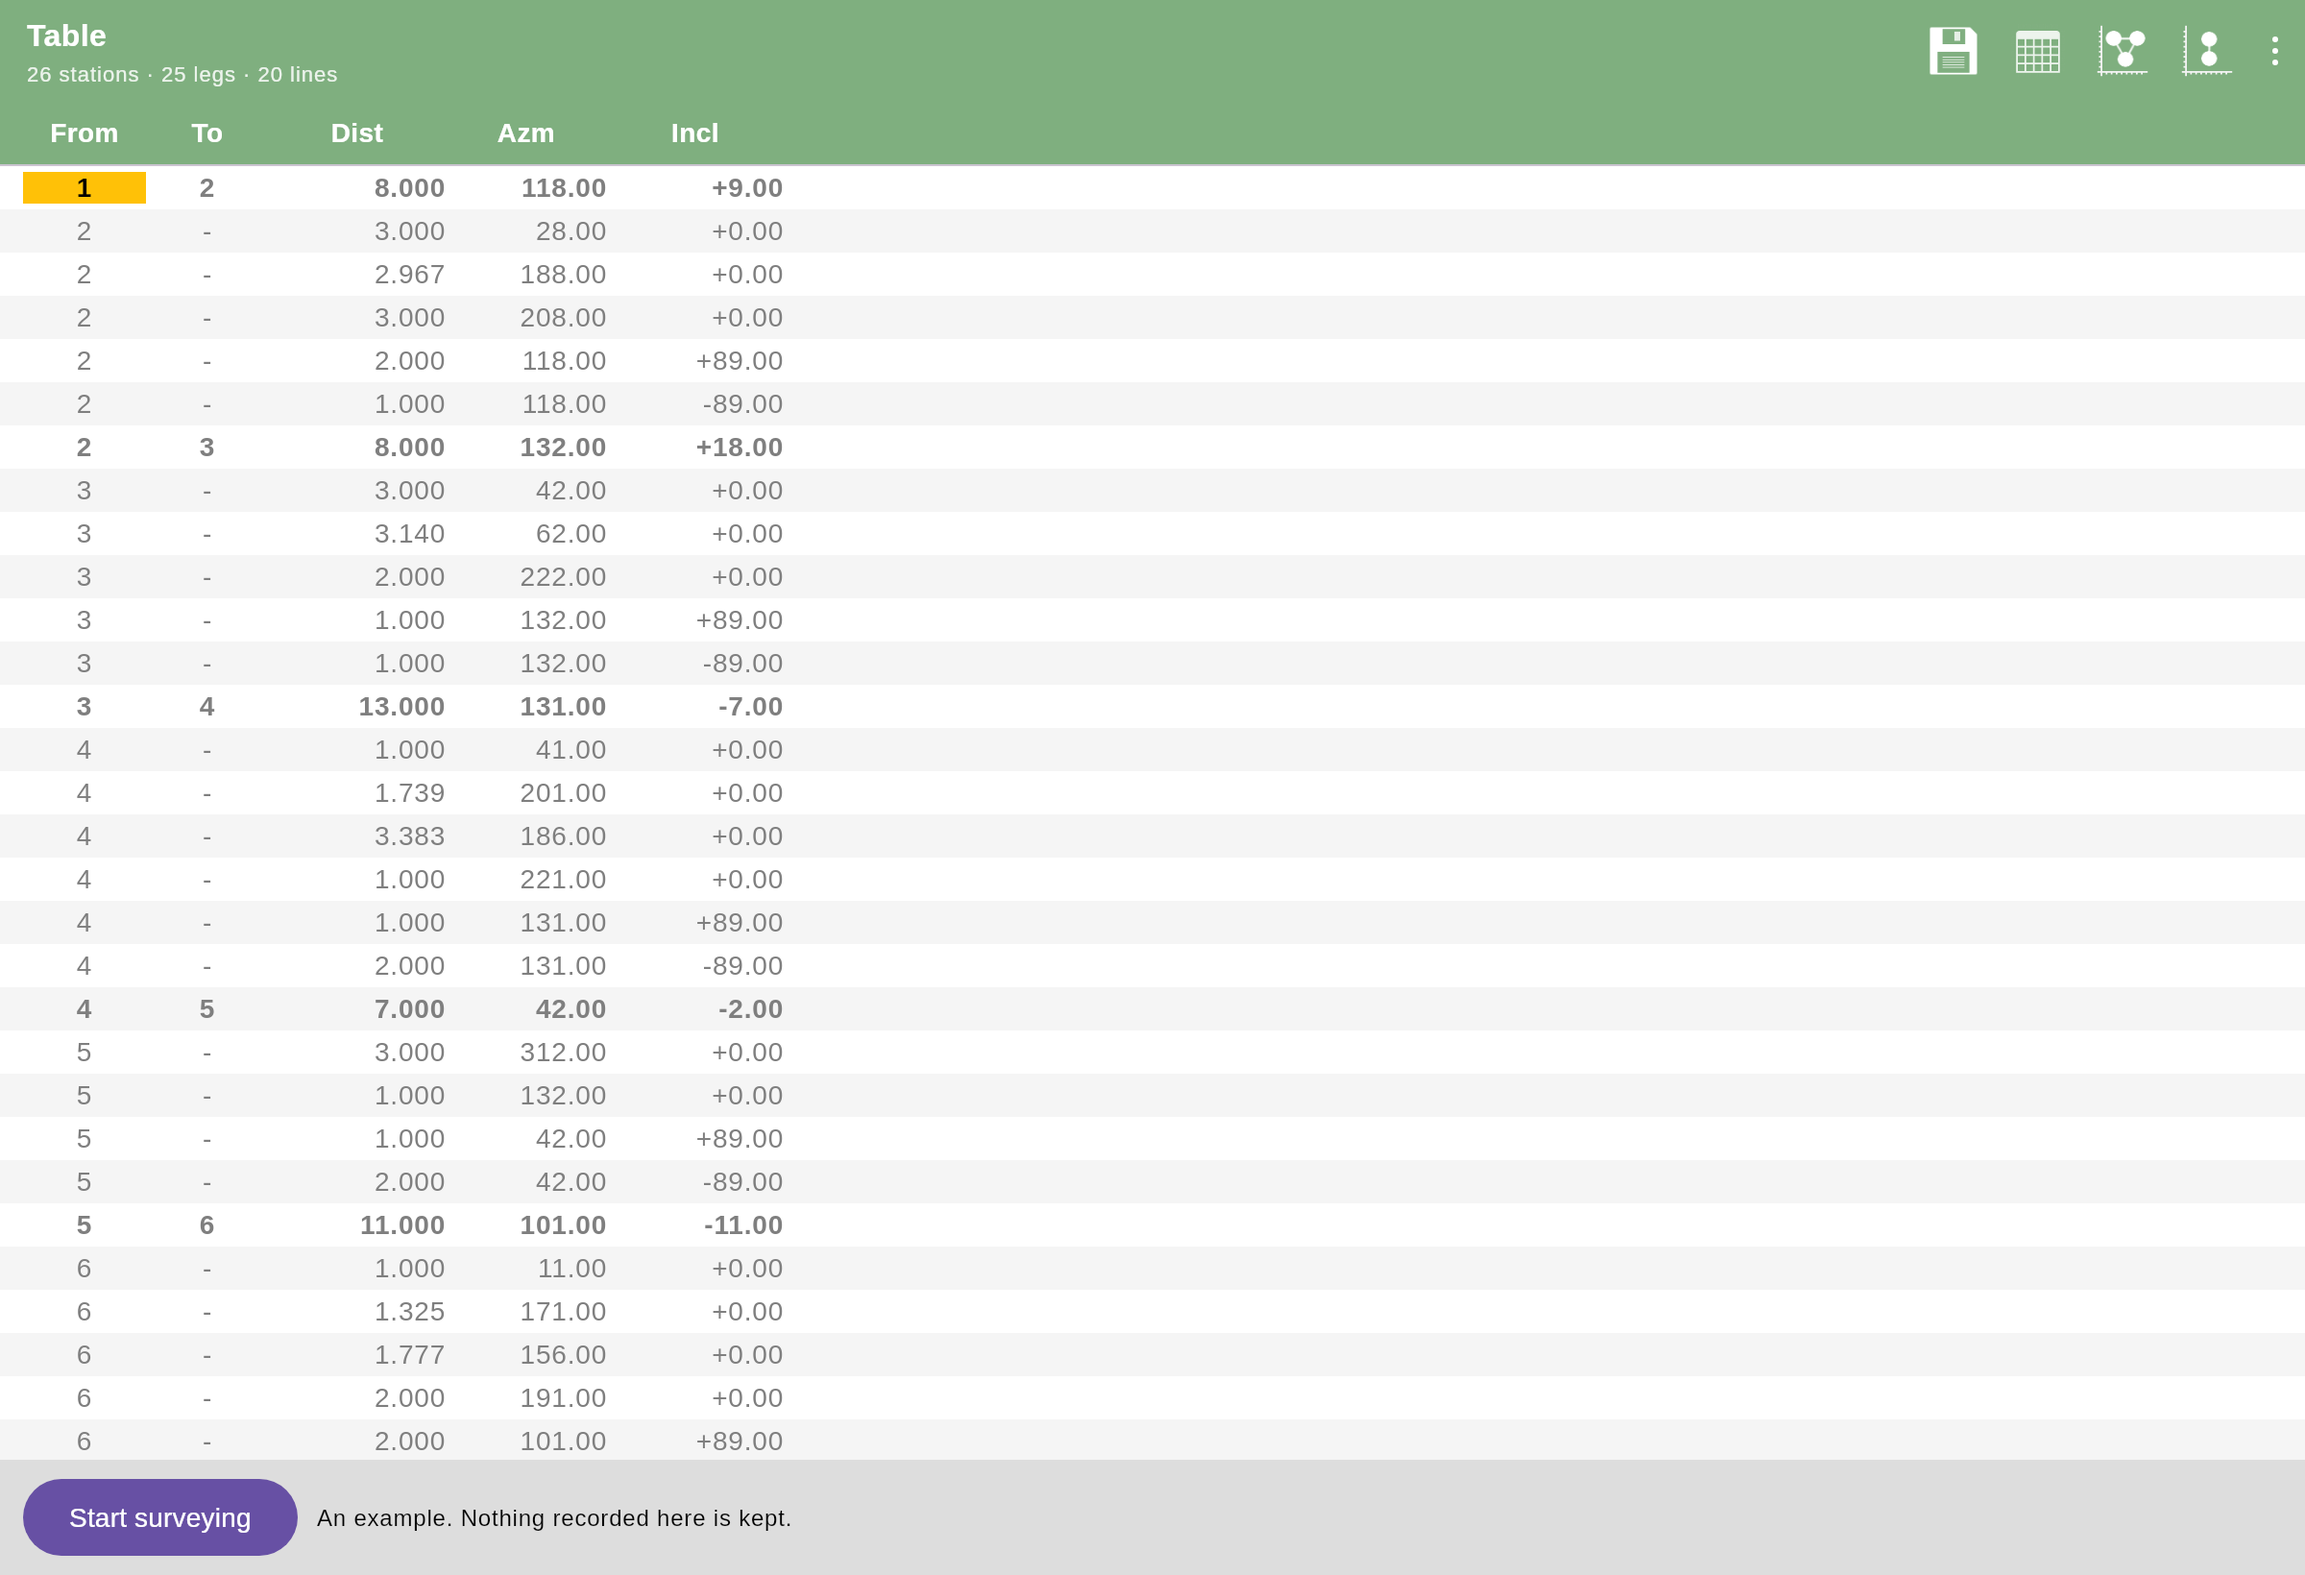
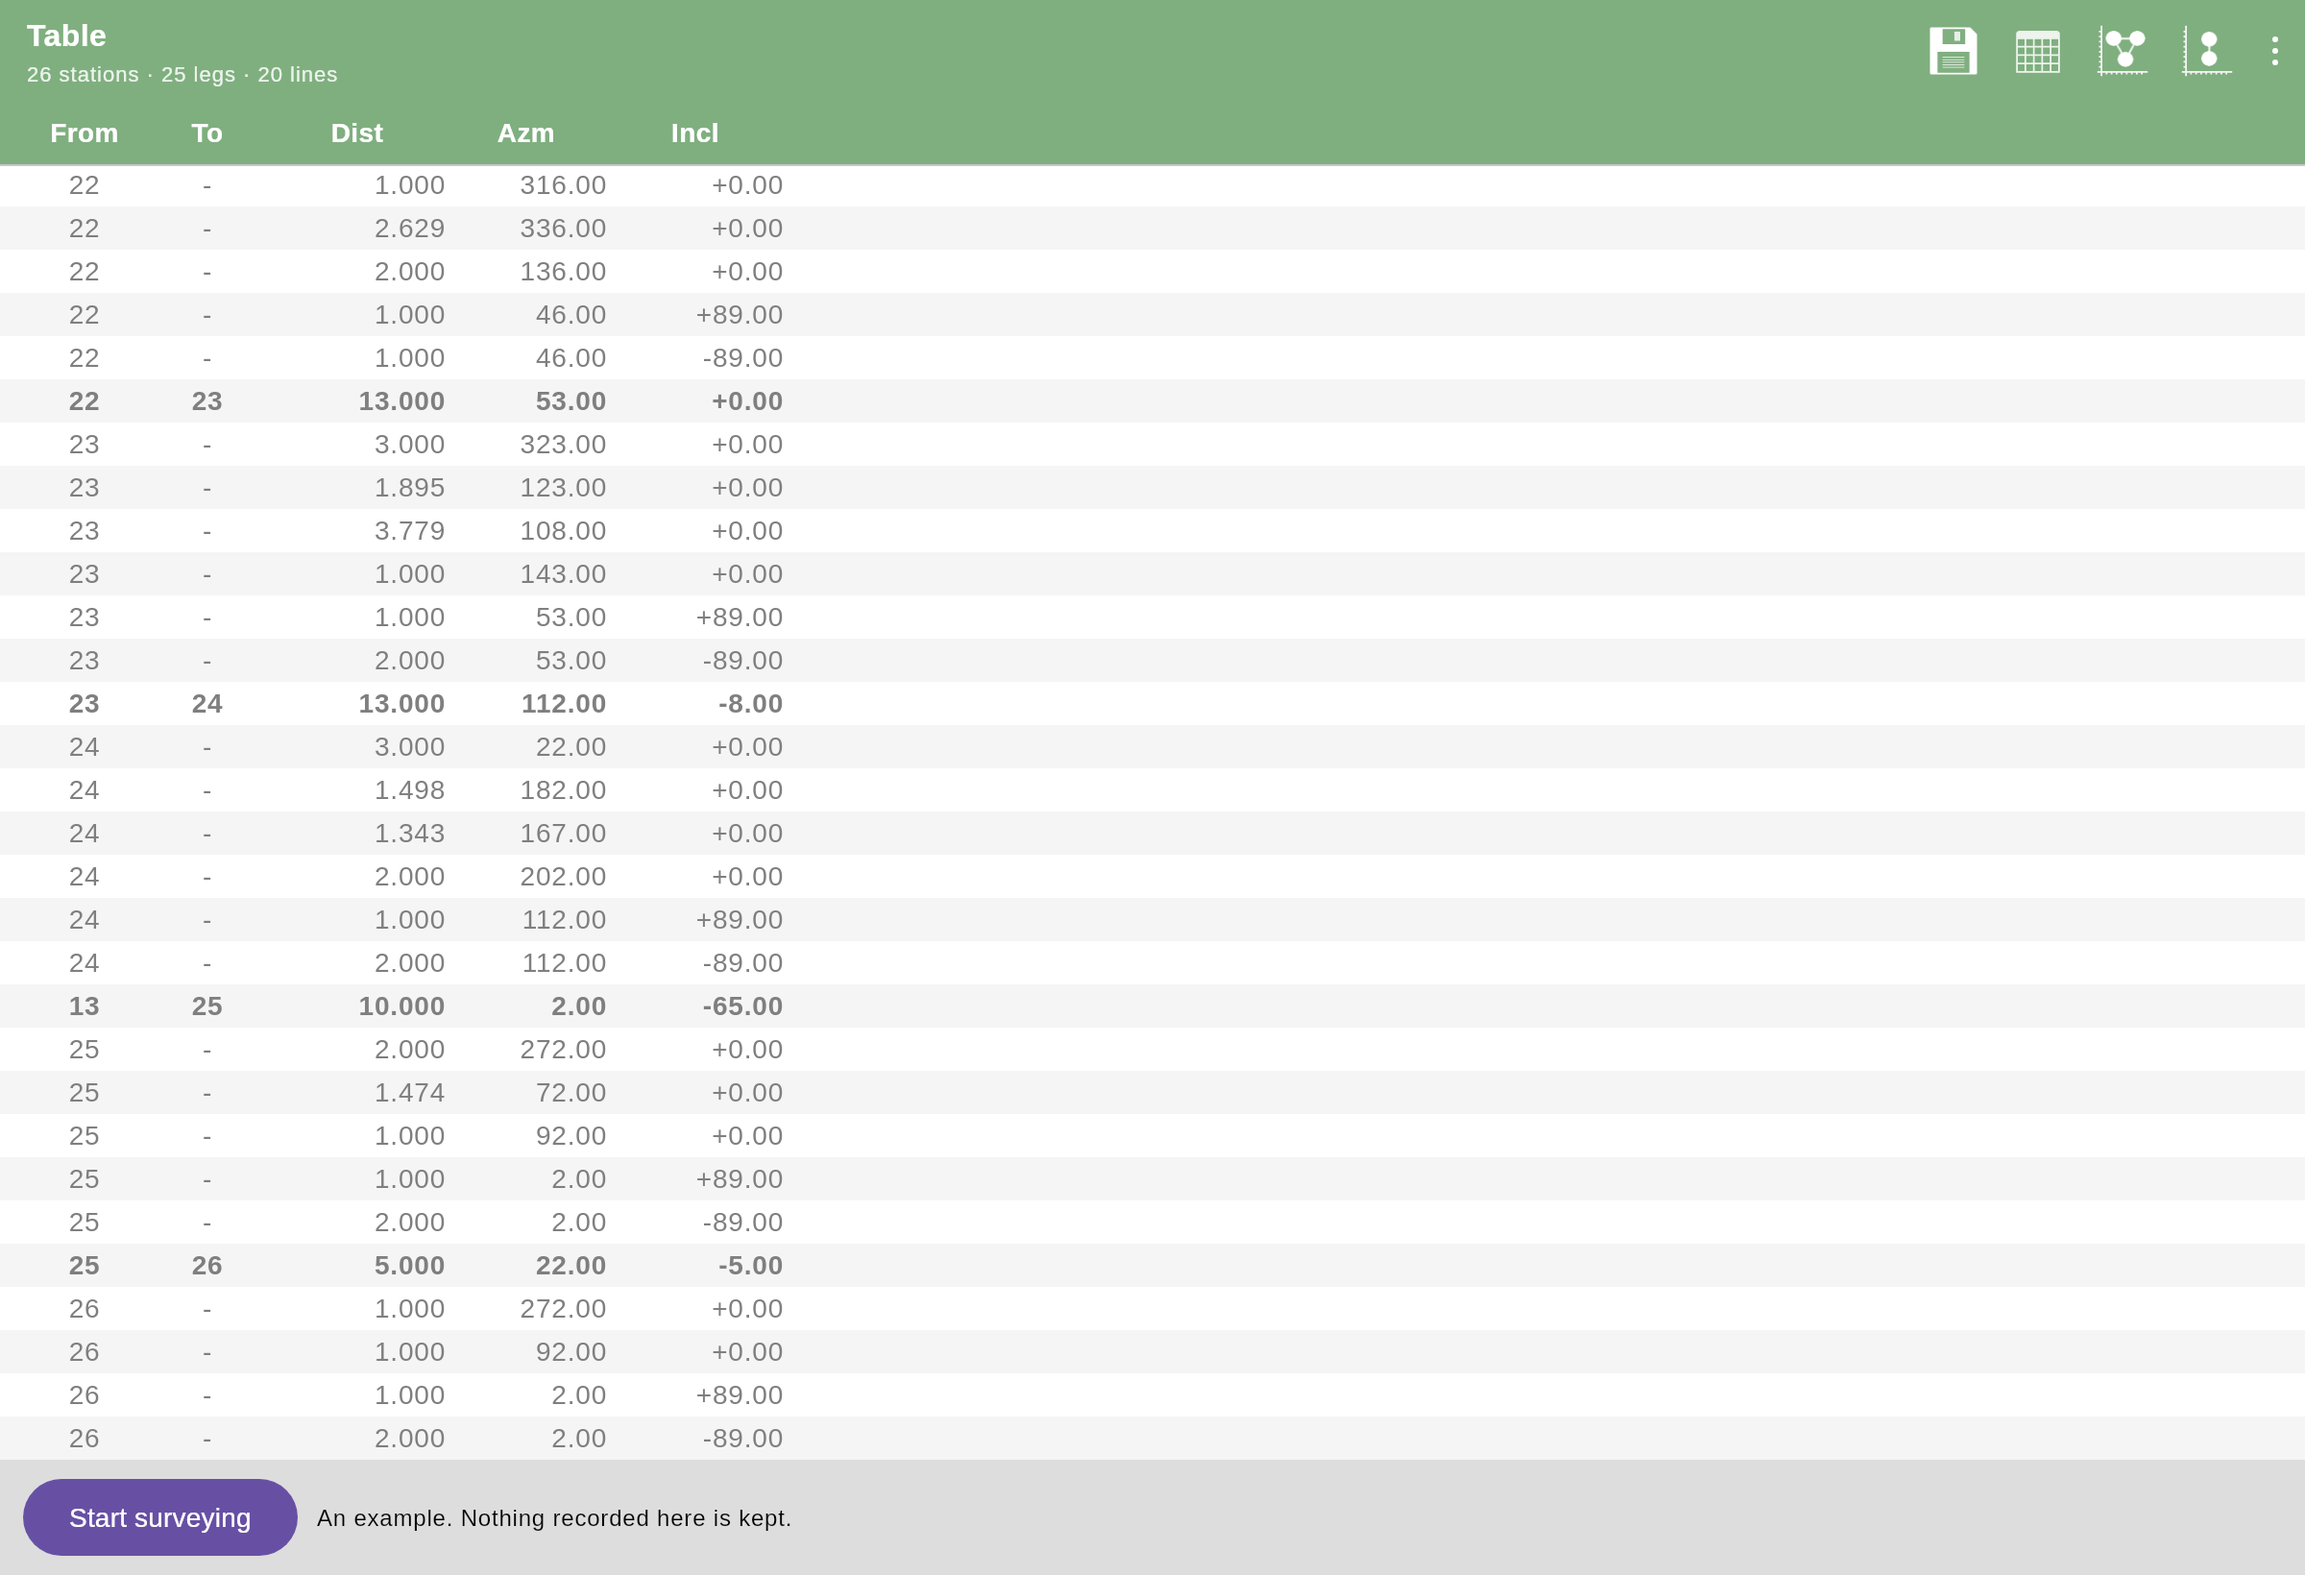
Put the leg menu in its own order, and stop a splay's To cell being inert
Three more from the same audit.

context_leg.xml lists Edit, then the promote/demote pair, then the comment,
with Delete in a group of its own; this port had the comment second, above
the rows that change the survey, and no divider. Move to Different Station
stays after Delete, where the table's own two menus put it.

A splay's To cell reads "-" and was inert, so the only way into the station
menu from a splay row was its From cell. onRowLongClick answers with the
station the splay hangs off whichever of the two columns is pressed. The cell
still shows nothing, so it does not light amber when that station is active —
isActiveStation asks that of Survey.NULL_STATION and always gets no.

And table_row.xml is singleLine with ellipsize="end", so a long station name
shortens instead of making its row twice as tall as every other one.

Claude-Session: https://claude.ai/code/session_013CsR9vvrVNVSXpSe9M97qE

diff --git a/kmp/demo/src/commonMain/kotlin/org/hwyl/sexytopo/demo/SurveyTableView.kt b/kmp/demo/src/commonMain/kotlin/org/hwyl/sexytopo/demo/SurveyTableView.kt
@@ -27,6 +27,7 @@ import androidx.compose.runtime.setValue
 import androidx.compose.ui.Modifier
 import androidx.compose.ui.text.font.FontWeight
 import androidx.compose.ui.text.style.TextAlign
+import androidx.compose.ui.text.style.TextOverflow
 import androidx.compose.ui.unit.dp
 import androidx.compose.ui.unit.sp
 import org.hwyl.sexytopo.shared.model.survey.Leg
@@ -197,6 +198,7 @@ fun SurveyTableView(
                     StationCell(
                         row.fromShown,
                         row.fromStationShown,
+                        row.fromStationShown,
                         active,
                         row.isSplay,
                         editable,
@@ -207,7 +209,13 @@ fun SurveyTableView(
                     )
                     StationCell(
                         row.toShown,
+                        // Shown: nothing on a splay, so the "-" never lights as the active
+                        // station — `isActiveStation` asks that of `Survey.NULL_STATION` and
+                        // always gets no.
                         row.toStationShown,
+                        // `onRowLongClick`: on a splay both station columns answer with the
+                        // station it hangs off. This cell had been inert.
+                        row.toStationShown ?: row.fromStationShown,
                         active,
                         row.isSplay,
                         editable,
@@ -271,7 +279,13 @@ private fun HeaderCell(text: String, width: androidx.compose.ui.unit.Dp) {
 @Composable
 private fun StationCell(
     text: String,
+    /** The station this cell *shows*, which is what decides the active-station highlight. */
     station: Station?,
+    /**
+     * The station its menu is about, which on a splay's To cell is not the one it shows: the cell
+     * reads "-" and `onRowLongClick` still answers with the station the splay hangs off.
+     */
+    menuStation: Station?,
     active: Station?,
     isSplay: Boolean,
     editable: Boolean,
@@ -280,7 +294,7 @@ private fun StationCell(
     onStation: ((Station) -> Unit)?,
     onEdit: () -> Unit,
 ) {
-    val handler = if (editable && station != null) onStation else null
+    val handler = if (editable && menuStation != null) onStation else null
     val lit = station != null && station === active
 
     Box(
@@ -305,7 +319,7 @@ private fun StationCell(
                 } else {
                     Modifier.combinedClickable(
                         onClick = onEdit,
-                        onLongClick = { handler(station!!) },
+                        onLongClick = { handler(menuStation!!) },
                     )
                 },
             ),
@@ -319,6 +333,10 @@ private fun StationCell(
             textAlign = TextAlign.Center,
             fontWeight = if (isSplay) FontWeight.Normal else FontWeight.Bold,
             color = cellInk(lit, darkMode),
+            // `singleLine="true" ellipsize="end"`: a long name shortens rather than making its
+            // row twice as tall as every other one.
+            maxLines = 1,
+            overflow = TextOverflow.Ellipsis,
         )
     }
 }
@@ -339,6 +357,8 @@ private fun Cell(
         textAlign = TextAlign.End,
         fontWeight = if (isSplay) FontWeight.Normal else FontWeight.Bold,
         color = cellInk(lit = false, darkMode = darkMode),
+        maxLines = 1,
+        overflow = TextOverflow.Ellipsis,
     )
 }
 

diff --git a/kmp/demo/src/commonMain/kotlin/org/hwyl/sexytopo/demo/LegActions.kt b/kmp/demo/src/commonMain/kotlin/org/hwyl/sexytopo/demo/LegActions.kt
@@ -10,6 +10,7 @@ import androidx.compose.foundation.layout.heightIn
 import androidx.compose.foundation.rememberScrollState
 import androidx.compose.foundation.verticalScroll
 import androidx.compose.material3.AlertDialog
+import androidx.compose.material3.HorizontalDivider
 import androidx.compose.material3.MaterialTheme
 import androidx.compose.foundation.text.KeyboardOptions
 import androidx.compose.material3.OutlinedTextField
@@ -72,8 +73,11 @@ enum class LegAction(private val legLabel: String, private val splayLabel: Strin
 
 /** Which actions this row can actually take, in the order the dialog offers them. */
 fun legActionsFor(survey: Survey, row: SurveyTableRow): List<LegAction> = buildList {
+    // `context_leg.xml`'s own order — Edit, Reverse, Upgrade to Leg, Add to Leg Above,
+    // Downgrade to Splay, then the comment — with the two groups' divider before Delete, and
+    // *Move to Different Station* after it where the table's own menus put it. The comment used
+    // to be second, which put the rarely-wanted row above the five that change the survey.
     add(LegAction.EDIT)
-    add(LegAction.COMMENT)
     if (row.isSplay) {
         add(LegAction.UPGRADE)
         if (SurveyUpdater.canPromoteToAboveLeg(survey, row.leg)) add(LegAction.PROMOTE)
@@ -81,8 +85,9 @@ fun legActionsFor(survey: Survey, row: SurveyTableRow): List<LegAction> = buildL
         add(LegAction.REVERSE)
         if (SurveyUpdater.canDowngradeLeg(row.leg)) add(LegAction.DOWNGRADE)
     }
-    if (legMoveTargets(survey, row).isNotEmpty()) add(LegAction.MOVE)
+    add(LegAction.COMMENT)
     add(LegAction.DELETE)
+    if (legMoveTargets(survey, row).isNotEmpty()) add(LegAction.MOVE)
 }
 
 /**
@@ -225,6 +230,8 @@ fun LegActionsDialog(
                 confirmButton = {
                     Column(horizontalAlignment = Alignment.End) {
                         for (action in legActionsFor(survey, row)) {
+                            // `setGroupDividerEnabled`: `group_leg_delete` is its own group.
+                            if (action == LegAction.DELETE) HorizontalDivider()
                             TextButton(
                                 onClick = {
                                     when (action) {

diff --git a/kmp/demo/src/jvmTest/kotlin/org/hwyl/sexytopo/demo/LegActionsTest.kt b/kmp/demo/src/jvmTest/kotlin/org/hwyl/sexytopo/demo/LegActionsTest.kt
@@ -101,6 +101,28 @@ class LegActionsTest {
         }
     }
 
+    /**
+     * `context_leg.xml`'s own order, which this port had put the comment second in — above the
+     * five rows that change the survey, and the one a surveyor least often wants.
+     */
+    @Test
+    fun theItemsComeInTheOrderTheAndroidMenuListsThem() {
+        val survey = passage()
+        val leg = legActionsFor(survey, rowFor(survey, "1", legInto(survey, "2")))
+        assertEquals(
+            listOf(
+                LegAction.EDIT,
+                LegAction.REVERSE,
+                LegAction.COMMENT,
+                LegAction.DELETE,
+            ),
+            leg.filterNot { it == LegAction.MOVE || it == LegAction.DOWNGRADE },
+        )
+        // Delete is the last of `context_leg.xml`'s own rows; *Move to Different Station* comes
+        // from the table's menus, which put it after Delete.
+        if (LegAction.MOVE in leg) assertEquals(LegAction.MOVE, leg.last())
+    }
+
     @Test
     fun aSplayAsksForASplayCommentAndALegForALegOne() {
         assertEquals("Splay comment", LegAction.COMMENT.label(isSplay = true))

diff --git a/kmp/README.md b/kmp/README.md
@@ -3554,7 +3554,7 @@ Written down here rather than left in a commit log, because the useful thing to 
 this up again is which of the remaining items are *blocked* and which are merely *not done*.
 
 **The state of it.** Everything in the evidence table above is on this branch and green in CI: 793
-shared tests on three targets, 8 more against `java.util.zip` on the JVM, 474 over the UI's own
+shared tests on three targets, 8 more against `java.util.zip` on the JVM, 475 over the UI's own
 logic, 20 running the iOS half in a simulator,
 118 browser checks driving the real page on a 420-pixel screen and finishing at 375x667, then
 667x375, then 375x375, and 12 more at a desk, on a wheel, a trackpad and a keyboard. The
